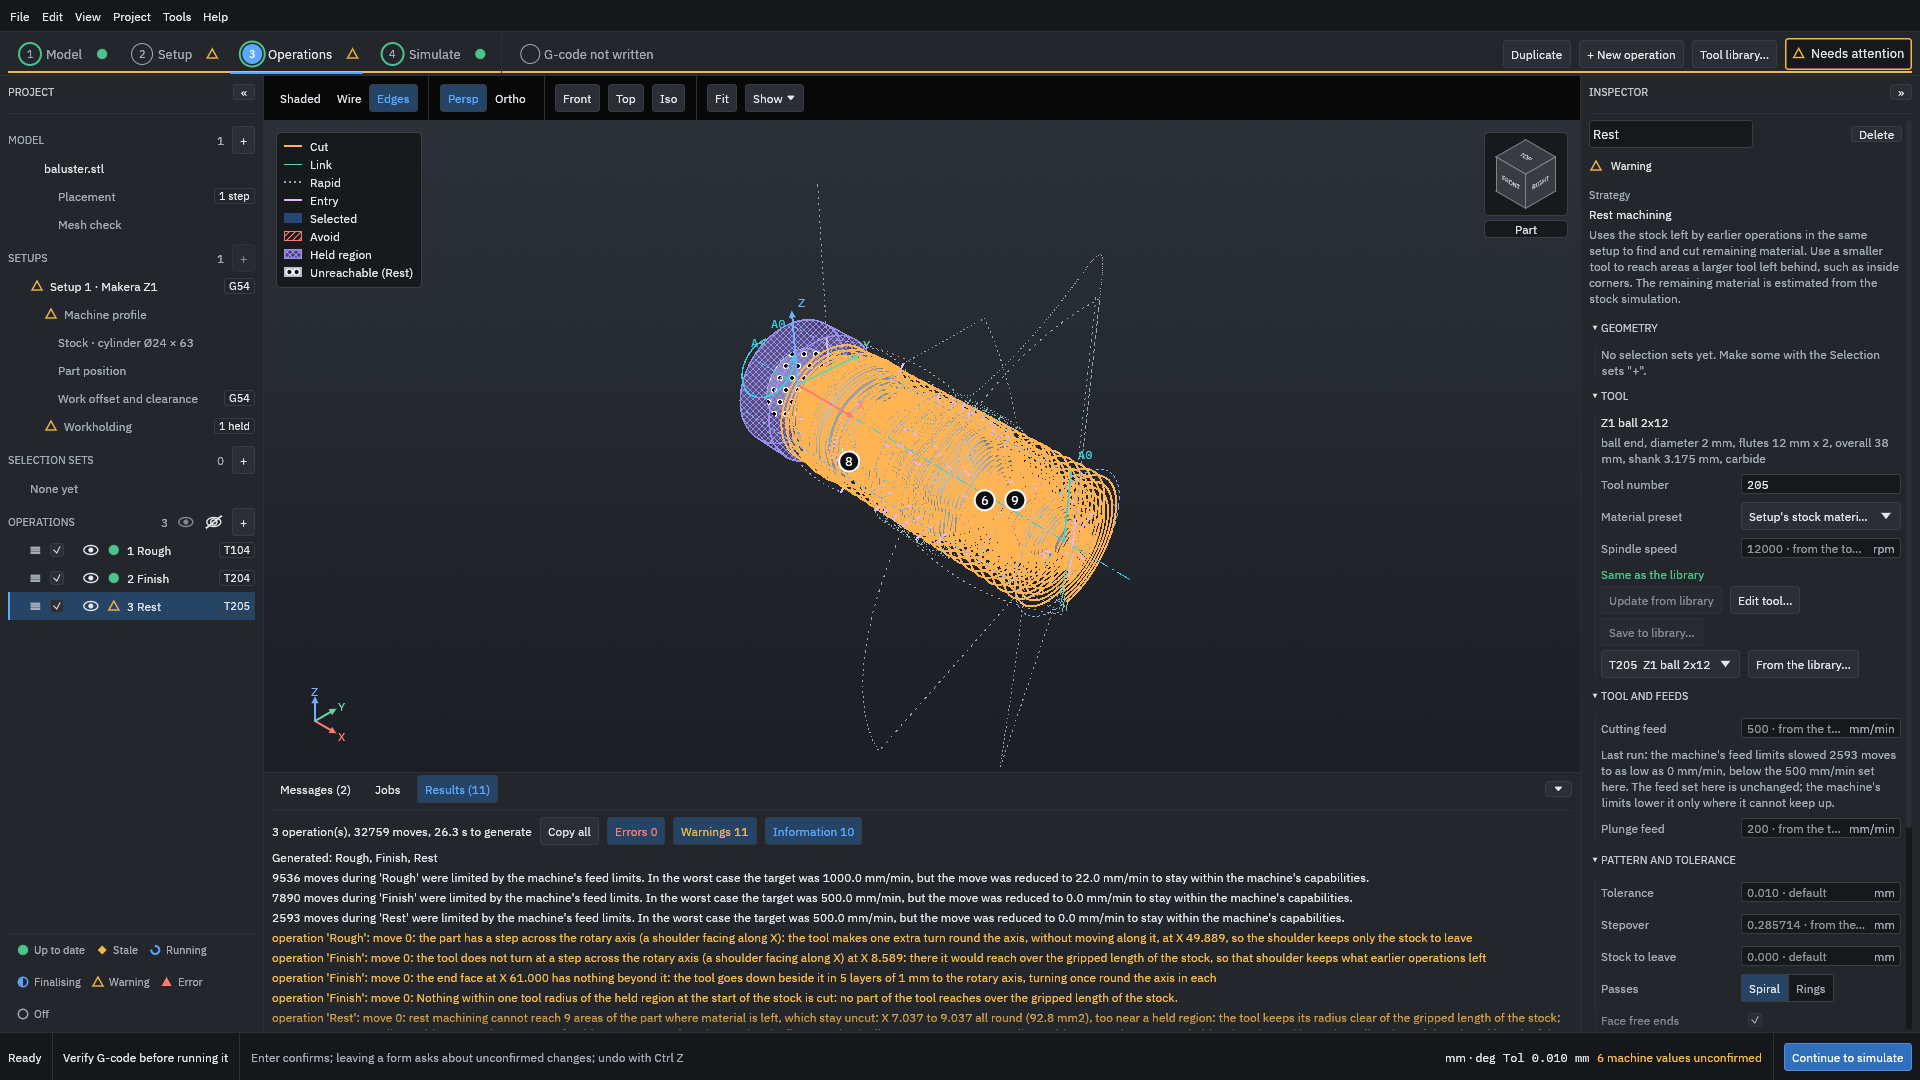
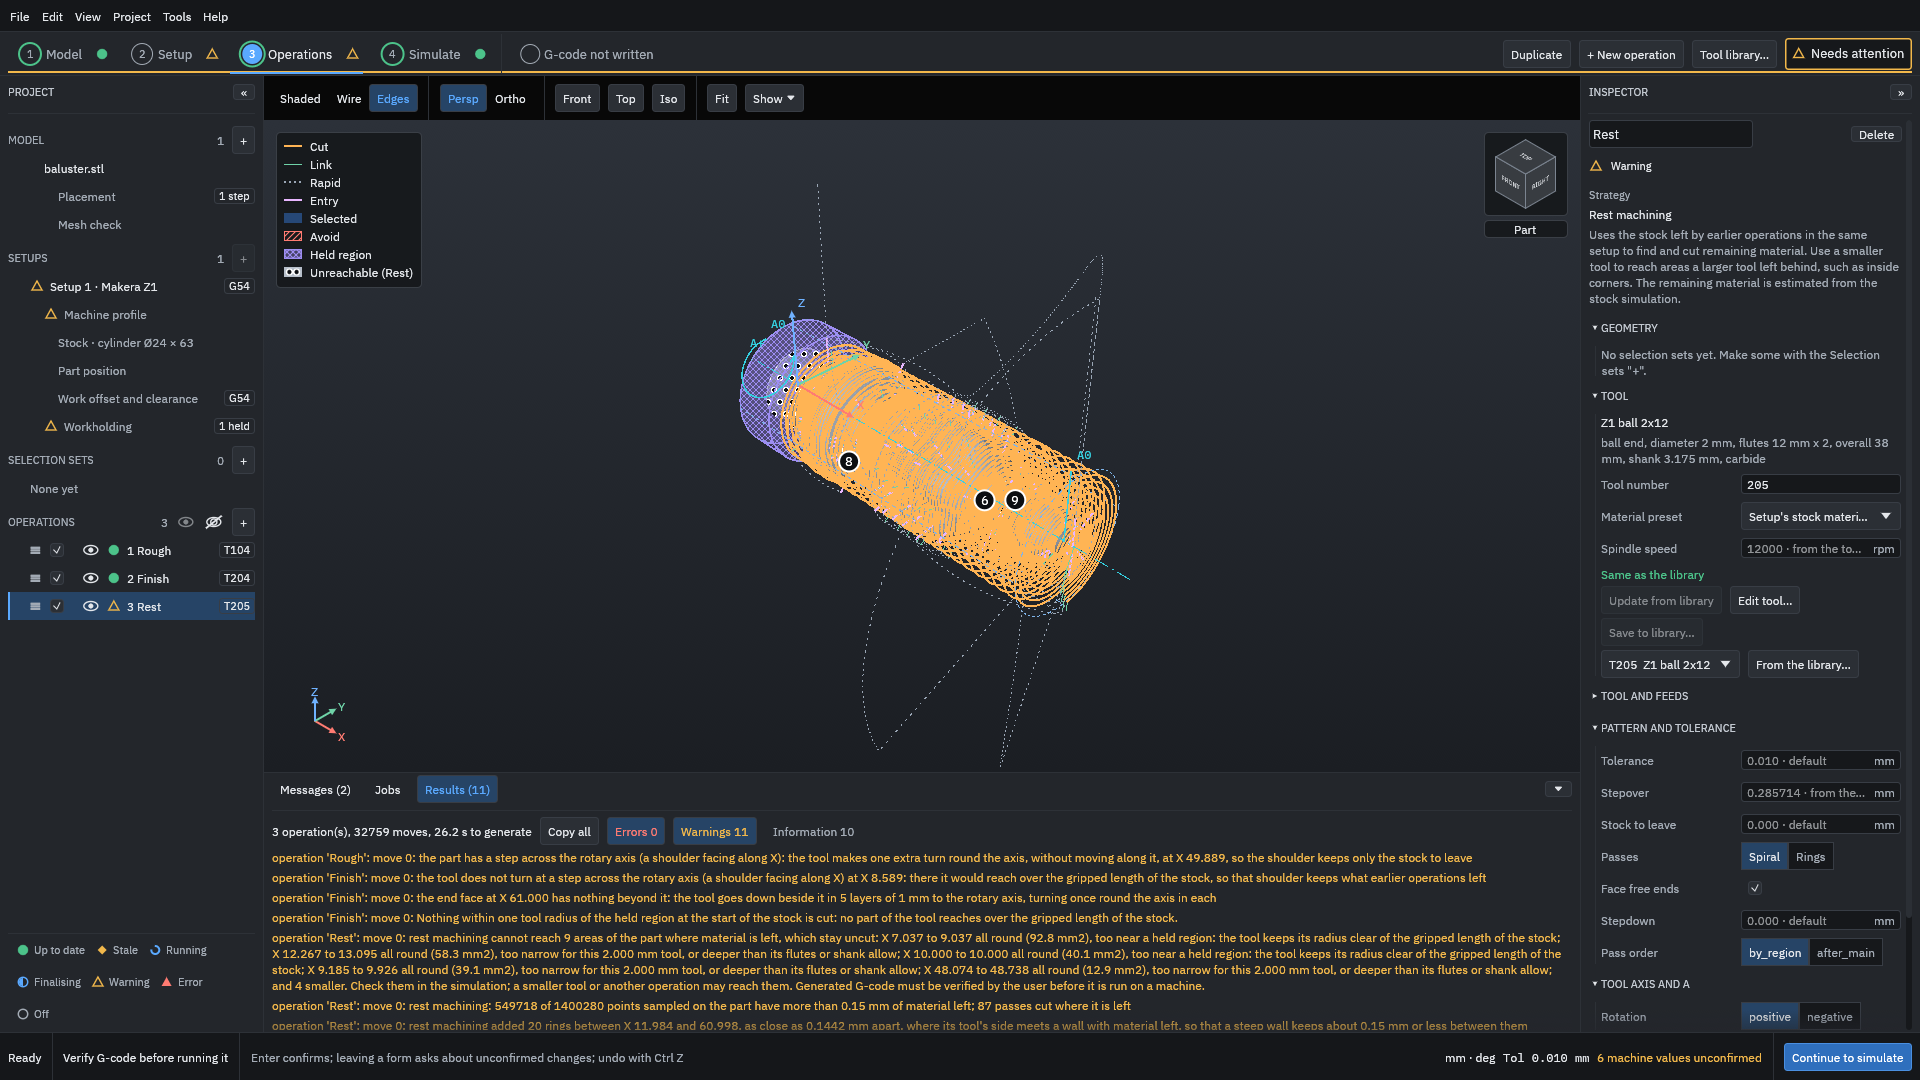
Lane EXAMPLES-C: rest example recaptured: feed-limit lines (#600) and the pass-order time (#612) kept out of the screens
Claude-Session: https://claude.ai/code/session_017vEio486gvooQqVzoMBL6x

Changed region(s): [[0.125, 0.7333, 0.8125, 0.9778], [0.8125, 0.6722, 1.0, 0.9778]]

diff --git a/user-docs/tools/examples/rest.py b/user-docs/tools/examples/rest.py
@@ -8,6 +8,15 @@ layout of the build they were taken with, at 1920 x 1080; change them and the pa
 GENERATE = 100  # seconds; the rest operation alone, from the setup's stock, takes about 45 s here
 
 
+def crop_height(cap, name, height):
+    """Keep the top `height` pixels: the line below is under review (#612) and not shown."""
+    from PIL import Image
+
+    path = cap.OUT / f"{name}.png"
+    with Image.open(path) as im:
+        im.crop((0, 0, im.width, height)).save(path)
+
+
 def run(cap, work):
     cap.click(1630, 54, 2)                     # + New operation
     cap.click(958, 379, 1.5)                   # Strategy
@@ -19,12 +28,17 @@ def run(cap, work):
     cap.shot("01-add-rest")
     cap.click(707, 785, 3)                     # Add
     cap.click(1855, 1057, GENERATE)            # Generate: Rough, Finish and Rest
+    cap.click(1640, 695, 1)                    # fold TOOL AND FEEDS: its feed-limit note is under review (#600)
     cap.click(452, 789, 2)                     # Results
+    cap.click(813, 831, 1)                     # Information off: warnings only (the feed-limit lines, #600)
     cap.shot("02-rest-after-finish")
+    cap.click(813, 831, 1)                     # Information on again
     cap.scroll(900, 950, 6)                    # the Results list down to the volumes
     cap.shot("03-rest-results")
     cap.click(57, 550, 1)                      # untick 1 Rough
     cap.click(57, 578, 1)                      # untick 2 Finish
     cap.click(1855, 1057, GENERATE)            # Generate: Rest alone
     cap.scroll(900, 950, 10, down=False)
+    cap.click(813, 831, 1)                     # Information off: warnings only (#600)
     cap.shot("04-no-earlier-operation")
+    crop_height(cap, "04-no-earlier-operation", 978)

diff --git a/user-docs/src/examples/rest-machining.md b/user-docs/src/examples/rest-machining.md
@@ -28,10 +28,10 @@ A tool cannot cut a corner tighter than its own radius, or a groove narrower tha
 ## 2. Generate and read what it did
 
 1. Click **Generate**.
-2. Under the view, click **Results**.
+2. Under the view, click **Results**. In Figure 2, **Information** is turned off, so the list shows the warnings only.
 
 <figure>
-<a href="images/rest/02-rest-after-finish.png"><img src="images/rest/02-rest-after-finish.png" width="1920" height="1080" alt="The three operations generated; the view shows the paths and numbered black-and-white markers labelled Unreachable (Rest) in the legend, near the held end and along the part; the Results tab begins 3 operation(s), 32759 moves, and lists the warnings of each operation, the last starting operation 'Rest': move 0: rest machining cannot reach 9 areas of the part."></a>
+<a href="images/rest/02-rest-after-finish.png"><img src="images/rest/02-rest-after-finish.png" width="1920" height="1080" alt="The three operations generated; the view shows the paths and numbered black-and-white markers labelled Unreachable (Rest) in the legend, near the held end and along the part; the Results tab, with Information turned off, reads 3 operation(s), 32759 moves, and lists the warnings of each operation, among them operation 'Rest': move 0: rest machining cannot reach 9 areas of the part."></a>
 <figcaption><b>Figure 2.</b> The numbered markers show where material is left that the rest tool cannot reach.</figcaption>
 </figure>
 
@@ -73,7 +73,7 @@ To see what happens when the rest operation has nothing to follow, turn the othe
 2. Click **Generate**.
 
 <figure>
-<a href="images/rest/04-no-earlier-operation.png"><img src="images/rest/04-no-earlier-operation.png" width="1920" height="1080" alt="Only 3 Rest is ticked; the view shows a dense path over the whole stock; the Results tab reads 1 operation(s), 106196 moves, 40.3 s to generate, and operation 'Rest': Rest machining cleans up material that earlier operations left, and no earlier operation of this setup has cut: the setup's own stock is taken, so all of the part counts as having material left."></a>
+<a href="images/rest/04-no-earlier-operation.png"><img src="images/rest/04-no-earlier-operation.png" width="1920" height="978" alt="Only 3 Rest is ticked; the view shows a dense path over the whole stock; the Results tab, with Information turned off, reads 1 operation(s), 106196 moves, and first operation 'Rest': Rest machining cleans up material that earlier operations left, and no earlier operation of this setup has cut: the setup's own stock is taken, so all of the part counts as having material left."></a>
 <figcaption><b>Figure 4.</b> With no earlier operation, the rest operation starts from the whole stock and cuts all of it with the 2 mm ball.</figcaption>
 </figure>
 
